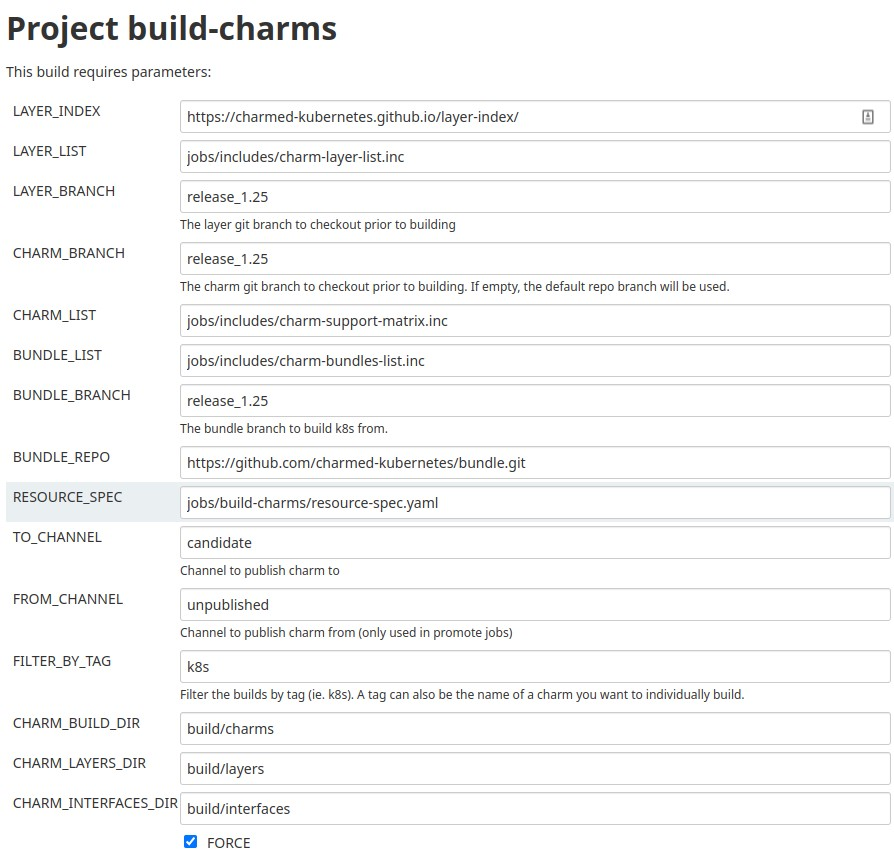
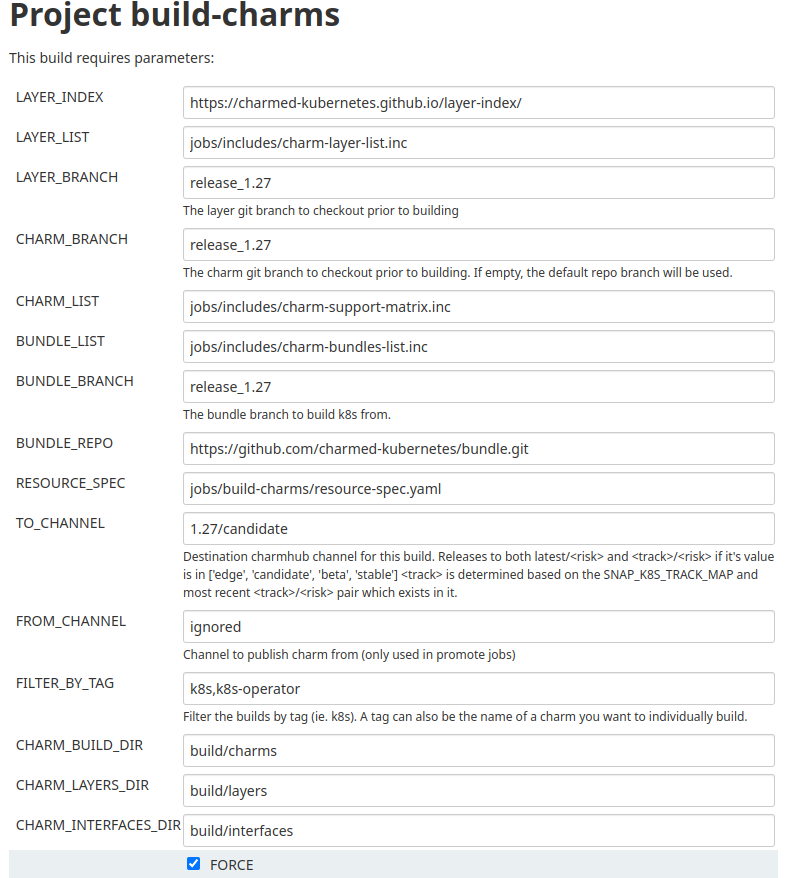
Improve documentation regarding building bugfix charm release (#1316)

diff --git a/docs/releases/bugfix/index.md b/docs/releases/bugfix/index.md
@@ -80,7 +80,7 @@ with **1.25+ck1**.
 **Job**: https://jenkins.canonical.com/k8s/job/build-charms/
 
 This will build charms from the `release_x.xx` branch and promote them to the
-candidate channel for testing.
+x.xx/candidate channel for testing.
 
 #### Charm build options
 
